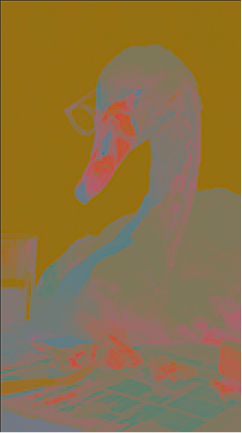
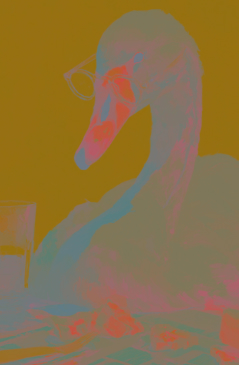
001

diff --git a/blog/chroma-subsampling.html b/blog/chroma-subsampling.html
@@ -250,11 +250,12 @@
 
 		@media (max-width: 768px) {
 			.classic-grid {
-				grid-template-columns: 1fr;
+				grid-template-columns: 1fr 1fr 1fr;
 				gap: 20px;
 			}
 
-			.cg-head {
+			.cg-head,
+			.cg-row-label {
 				display: none;
 			}
 
@@ -676,7 +677,7 @@
 
 			<p>
 				你知道嗎？<strong>你現在在 Netflix 上觀看的每一秒 4K 電影畫面，其實有整整 75% 的色彩資訊已經被悄悄丟棄了</strong>——而你的眼睛完全沒有發現。這不是
-				Bug，是一個運行已久的工程設計。
+				Bug，是一個利用眼睛生理特性，運行已久的工程設計。
 			</p>
 
 			<p>
@@ -731,6 +732,26 @@
 				<li><strong>Y (Luminance) 亮度：</strong> 決定了畫面的明暗、輪廓與細節。可以把這層想像成一張高解析度的黑白照片。</li>
 				<li><strong>U/V (Chrominance) 色度：</strong> 決定了畫面上的顏色分佈。</li>
 			</ul>
+			<!-- 圖層拆解對比圖 -->
+			<div style="display: flex; gap: 8px; margin: 30px 0; width: 100%;">
+				<div style="flex: 1; min-width: 0; text-align: center;">
+					<img src="image/chroma/luma-only.jpg" alt="Luma（亮度）通道"
+						style="width: 100%; height: auto; border-radius: 8px; box-shadow: 0 4px 15px rgba(0,0,0,0.1);">
+					<p style="font-size: 0.9em; color: #666; margin: 6px 0">亮度 ( Y / Luma )</p>
+					<p style="font-size: 1.2em; color: #666; margin-top: 2px;">人類眼睛對<strong>亮度敏感</strong></p>
+				</div>
+				<div style="flex: 1; min-width: 0; text-align: center;">
+					<img src="image/chroma/chroma-only.jpg" alt="Chroma（色度）通道"
+						style="width: 100%; height: auto; border-radius: 8px; box-shadow: 0 4px 15px rgba(0,0,0,0.1);">
+					<p style="font-size: 0.9em; color: #666; margin-top: 6px;">色度 ( UV / Chroma )</p>
+
+				</div>
+				<div style="flex: 1; min-width: 0; text-align: center;">
+					<img src="image/chroma/luma-chroma-combined.jpg" alt="Luma + Chroma 合成結果"
+						style="width: 100%; height: auto; border-radius: 8px; box-shadow: 0 4px 15px rgba(0,0,0,0.1);">
+					<p style="font-size: 0.9em; color: #666; margin-top: 6px;">原始照片 ( Luma + Chroma )</p>
+				</div>
+			</div>
 
 			<p>
 				這牽涉到一個極為關鍵的視覺感官秘密：<strong>人類眼睛對於深淺（光暗變化）的敏感度，遠遠大於對色彩的解析能力。</strong><br>
@@ -760,24 +781,6 @@
 				這就是色度抽樣的核心精神：<strong>利用大腦的視覺錯覺，保留 100% 絕對銳利的亮度資訊，但大膽地將色彩資訊丟棄掉一半以上。</strong>
 			</p>
 
-			<!-- 圖層拆解對比圖 -->
-			<div style="display: flex; gap: 8px; margin: 30px 0; width: 100%;">
-				<div style="flex: 1; min-width: 0; text-align: center;">
-					<img src="image/chroma/luma-only.jpg" alt="Luma（亮度）通道"
-						style="width: 100%; height: auto; border-radius: 8px; box-shadow: 0 4px 15px rgba(0,0,0,0.1);">
-					<p style="font-size: 0.8em; color: #666; margin-top: 6px;">Luma</p>
-				</div>
-				<div style="flex: 1; min-width: 0; text-align: center;">
-					<img src="image/chroma/chroma-only.jpg" alt="Chroma（色度）通道"
-						style="width: 100%; height: auto; border-radius: 8px; box-shadow: 0 4px 15px rgba(0,0,0,0.1);">
-					<p style="font-size: 0.8em; color: #666; margin-top: 6px;">Chroma</p>
-				</div>
-				<div style="flex: 1; min-width: 0; text-align: center;">
-					<img src="image/chroma/luma-chroma-combined.jpg" alt="Luma + Chroma 合成結果"
-						style="width: 100%; height: auto; border-radius: 8px; box-shadow: 0 4px 15px rgba(0,0,0,0.1);">
-					<p style="font-size: 0.8em; color: #666; margin-top: 6px;">Luma + Chroma</p>
-				</div>
-			</div>
 
 			<p>
 				既然視覺對色度造成的影響相對較小，工程師發明了<strong>「色度抽樣 (Chroma Subsampling)」</strong>。它是一種大幅縮減影像中色度訊息，來有效縮減檔案大小與節省頻寬的方法。在
@@ -886,7 +889,8 @@
 
 			<h3>4:4:4 格式 (無抽樣)</h3>
 
-			<div class="css-illustration" style="padding: 30px 10px; background: #fff; margin-top: 20px;">
+			<div class="css-illustration"
+				style="padding: 30px 10px; background: #fff; margin-top: 20px; max-width: 100%;">
 				<div class="classic-grid">
 					<div class="cg-head"></div>
 					<div class="cg-head">Luma</div>
@@ -963,7 +967,8 @@
 			<p>
 				數字表示在 4 個像素的寬度中，上下兩排的 4 個像素全都有自己獨立的色彩。它<strong>沒有使用到色度抽樣</strong>，呈現了最完整的亮度與色度。
 				<br>
-				<strong>適合場景：</strong> 高階數位相機 RAW 檔、底片掃描器、電影後期調色製作，以及電腦工作用的顯示器。
+				<strong>適合場景：</strong> 預算頂級的好萊塢電影、極端重度特效合成（VFX）、高階數位相機 RAW
+				檔，以及絕對不能有顏色誤差的電腦工作顯示器。它是<strong>不計儲存成本</strong>的最高畫質指標。
 			</p>
 
 			<div class="callout-box"
@@ -985,12 +990,6 @@
 					保留了與 RGB 完全同等的信息量，因此兩者可以互相轉換且畫質無損。
 				</p>
 			</div>
-
-			</p>
-
-			<!-- 電腦文字邊沿銳利度檢測範例圖 (建議圖片 2) -->
-			<img src="image/chroma/text-fringing.jpg" alt="電腦文字邊沿銳利度檢測範例圖：對比無損 4:4:4 的文字邊緣與 4:2:0 電腦螢幕上文字邊緣溢色、糊掉的慘況。"
-				style="width: 100%; height: auto; border-radius: 8px; margin: 20px 0 30px; box-shadow: 0 4px 15px rgba(0,0,0,0.1);">
 
 
 			<h3>4:2:2 格式 (色彩減半)</h3>
@@ -1066,7 +1065,8 @@
 				雖然留存的色彩訊號佔全彩的二分之一，但在加上 100% 完整的亮度 Y 之後，總數據量大約是 4:4:4 的 2/3。
 				<br><strong>為什麼適合綠幕去背 (Keying)？</strong> 因為比起
 				4:2:0，它在水平方向多了整整一倍的色彩資訊！這讓軟體在演算「髮絲邊緣」或「半透明物件」去背時，能有更精準的顏色邊界判斷，邊緣會乾淨非常多。
-				<br><strong>適合場景：</strong> 專業廣播電視、高階錄影、需要進行進階綠幕去背與特效的電影後製素材。
+				<br><strong>適合場景：</strong> 專業廣播節目、商業廣告、多數電影的拍攝素材。它是畫質與檔案大小之間的<strong>完美甜蜜點</strong>，能以較低的儲存成本，提供足以應付 90%
+				進階綠幕去背與調色需求的畫質，是專業影視工業的<strong>絕對主力</strong>。
 			</p>
 
 			<h3>4:2:0 格式 (色彩剩四分之一)</h3>
@@ -1157,13 +1157,9 @@
 				</p>
 			</div>
 
-			<p>
-				下面用動態長條圖，讓你一眼看出三種格式的總數據量差異：
-			</p>
-
 			<!-- Animated Bandwidth Bar Chart -->
 			<div class="css-illustration">
-				<h4>📊 三種格式的資料傳輸量對比</h4>
+				<h4>三種格式的資料傳輸量對比</h4>
 				<div class="bw-chart">
 					<div class="bw-row">
 						<div class="bw-label">4:4:4</div>
@@ -1201,7 +1197,7 @@
 				</p>
 			</div>
 
-			<h2 id="summary">總結表格：我們該如何選擇？</h2>
+			<h2 id="summary">我們該如何選擇？</h2>
 			<p>
 				除非你用的是高解析度電視作為極限的電腦螢幕 (看非常細小的紅色文字在黑色背景上時，4:2:0
 				的邊緣會模糊溢色)，這三種格式對於一般影片觀賞的影響微乎其微。數字越高代表畫面色彩細緻度越高，但也代表需要越佔用硬碟層級的頻寬。
@@ -1275,29 +1271,60 @@
 			</p>
 
 			<div class="css-illustration"
-				style="background: #f8f9fa; padding: 25px; border-radius: 8px; margin-bottom: 30px;">
-				<h4 style="margin-top:0;">🌊 水管塞爆情境模擬</h4>
-				<div style="display:flex; flex-direction: column; gap: 15px;">
+				style="background: #f8f9fa; padding: 25px; border-radius: 8px; margin-bottom: 30px; font-family: sans-serif;">
+				<h4 style="margin-top:0; color: #2c3e50; font-size: 1.2rem;">🌊 水管塞爆情境模擬 <span
+						style="font-size: 0.8em; color: #7f8c8d; font-weight: normal;">(以 HDMI 2.0 線材為例)</span></h4>
+
+				<div style="display:flex; flex-direction: column; gap: 20px;">
+
 					<div
-						style="background: white; border-left: 5px solid #2ecc71; padding: 15px; border-radius: 4px; box-shadow: 0 2px 5px rgba(0,0,0,0.05);">
-						<strong>🟢 情境 A：頻寬充足，完美顯示</strong><br>
-						<span style="font-size: 0.9em; color:#666;">目標輸出：4K 解析度 + 60Hz 更新率 + 4:4:4 抽樣</span><br>
-						結果：一般的 HDMI 2.0 線材頻寬剛好可以順利通過這波資料量，桌面文字清晰無比。
+						style="background: white; border: 1px solid #e0e0e0; padding: 20px; border-radius: 8px; box-shadow: 0 4px 6px rgba(0,0,0,0.02);">
+						<div
+							style="display: flex; justify-content: space-between; align-items: baseline; margin-bottom: 10px;">
+							<strong style="color: #27ae60; font-size: 1.1rem;">🟢 情境 A：頻寬充足，完美顯示</strong>
+
+						</div>
+						<div
+							style="background: #e6ebec; height: 36px; border-radius: 18px; width: 75%; position: relative; overflow: hidden; margin-bottom: 12px; border:1px solid #1111113a">
+							<div style="background: linear-gradient(90deg, #2ecc71, #27ae60); width: 95%; height: 100%; display: flex; align-items: center; 
+								padding-left: 10px; color: white; font-size: 1rem; font-weight: bold;">
+								4K 60Hz + 4:4:4 資料量剛好通過</div>
+						</div>
+						<p style="margin: 0; font-size: 0.95rem; line-height: 1.6em; color: #555;">
+							<strong>結果：</strong>一般的 HDMI 2.0 線材頻寬剛好可以順利通過這波資料量，桌面文字清晰無比。
+						</p>
 					</div>
+
 					<div
-						style="background: white; border-left: 5px solid #e74c3c; padding: 15px; border-radius: 4px; box-shadow: 0 2px 5px rgba(0,0,0,0.05);">
-						<strong>🔴 情境 B：頻寬爆表，被迫硬體降級</strong><br>
-						<span style="font-size: 0.9em; color:#666;">目標輸出：4K 解析度 + <strong>120Hz 高更新率</strong> (但你仍使用舊的
-							HDMI 2.0 線材)</span><br>
-						結果：水管塞爆了！為了硬是擠出 120Hz 的流暢度，顯示卡驅動程式（NVIDIA/AMD）會自動妥協，<strong>偷偷把色彩抽樣從 4:4:4 降級成 4:2:2 或
-							4:2:0</strong>。<br>
-						👉
-						<strong>最終現象：</strong>你的遊戲確實變順暢了（120Hz），但當你切回桌面看網頁時，受限於色彩被抽樣合併，你會發現文字邊緣糊糊的、看起來很刺眼。這就是因為受限於硬體線材，電腦被迫放棄了
-						4:4:4。
+						style="background: white; border: 1px solid #e0e0e0; padding: 20px; border-radius: 8px; box-shadow: 0 4px 6px rgba(0,0,0,0.02);">
+						<div
+							style="display: flex; justify-content: space-between; align-items: baseline; margin-bottom: 10px;">
+							<strong style="color: #c0392b; font-size: 1.1rem;">🔴 情境 B：頻寬爆表，被迫降級</strong>
+						</div>
+
+						<div
+							style="background: #ecf0f1; height: 36px; border-radius: 18px; width: 100%; position: relative; margin-bottom: 12px; border: 1px dashed #e74c3c; ">
+							<div
+								style="background: linear-gradient(90deg, #e74c3c, #c0392b); width: 100%; height: 100%; display: flex; align-items: center; padding-left: 10px; color: white; font-size: 1rem; font-weight: bold; border-radius: 12px;">
+								4K + 120Hz + 4:4:4 資料量超出水管極限 (塞爆！)</div>
+							<div
+								style="position: absolute; right: 25%; top: -5px; bottom: -5px; width: 4px; background: #2c3e50; z-index: 2;">
+							</div>
+
+							<span
+								style="position: absolute; right: 26%; top: -20px; font-size: 0.75rem; color: #2c3e50; font-weight: bold;">HDMI
+								2.0 頻寬上限</span>
+						</div>
+
+						<p style="margin: 0; font-size: 0.95rem; line-height: 1.6em; color: #555;">
+							<strong>結果：</strong>為了硬是擠出 120Hz 的流暢度，顯示卡會自動妥協，<strong>偷偷把色彩降級成 4:2:2 或 4:2:0</strong>
+							以縮小資料體積。<br>
+							👉 <strong>最終現象：</strong>遊戲變順了，但切回桌面看網頁時，文字邊緣會糊糊的、看起來很刺眼。
+						</p>
 					</div>
+
 				</div>
 			</div>
-
 			<div class="css-illustration" style="background: #fff">
 				<h4>🔌 常見 HDMI 規格的頻寬極限</h4>
 				<div class="hdmi-cards">
